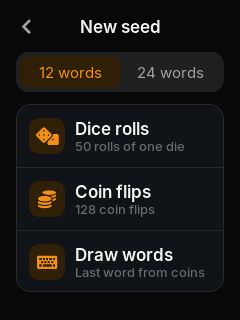
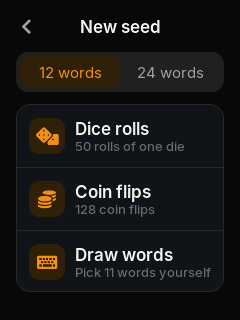
Clearer Draw words subtitle: Pick 11 words yourself

Changed region(s): [[0.3208, 0.8125, 0.875, 0.875]]

diff --git a/firmware/src/app/ui.cpp b/firmware/src/app/ui.cpp
@@ -521,7 +521,9 @@ static void build_new_seed() {
     lv_obj_t *r2 = list_row(c, ICON_COINS, "Coin flips", coins, method_cb, GO(UI_ENTROPY_COINS));
     lv_obj_align(r2, LV_ALIGN_TOP_MID, 0, 63);
     divider(c, 125);
-    lv_obj_t *r3 = list_row(c, ICON_KEYBOARD, "Draw words", "Last word from coins", draw_cb);
+    char draw[32];
+    snprintf(draw, sizeof(draw), "Pick %d words yourself", new_words - 1);
+    lv_obj_t *r3 = list_row(c, ICON_KEYBOARD, "Draw words", draw, draw_cb);
     lv_obj_align(r3, LV_ALIGN_TOP_MID, 0, 126);
     // These glyphs live in icons_18, not in list_row's font.
     for (lv_obj_t *r : {r1, r2, r3}) lv_obj_set_style_text_font(lv_obj_get_child(lv_obj_get_child(r, 0), 0), &icons_18, 0);
